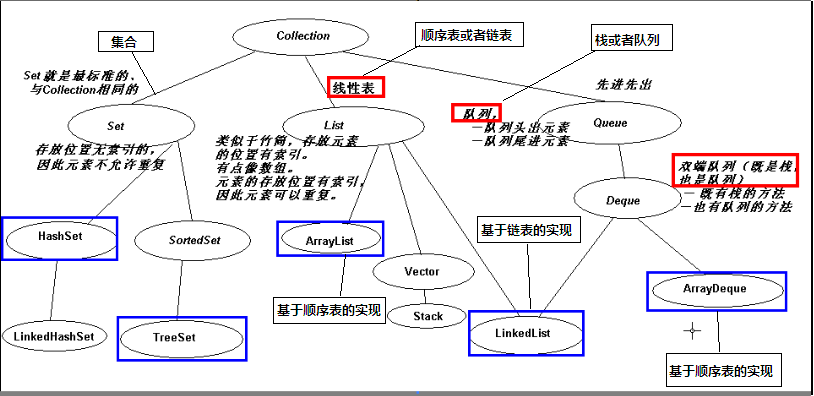
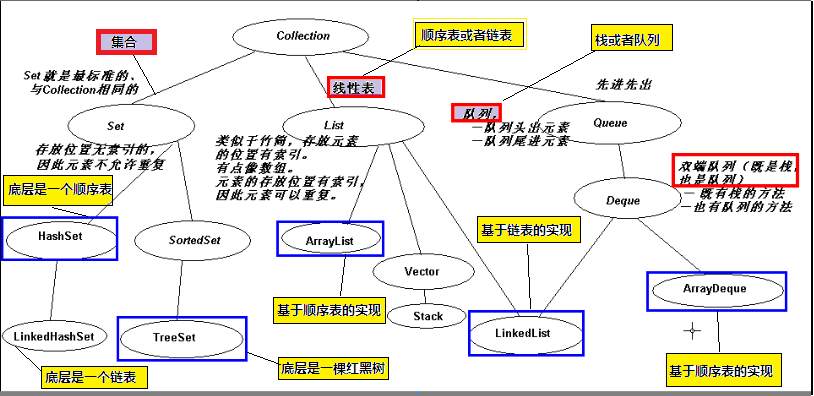
alter the collections

diff --git a/Javanote.md b/Javanote.md
@@ -2455,13 +2455,17 @@ b. loadFactor：负载因子。
 其存储机制与`HashSet`类似，但是，`HashSet`的底层机制是一个数组(顺序表），而且数据存放位置是一个无顺序的，也就是与放入时顺序无关的，这样，遍历整个`Hashset`的时候就是无序的。  
 而`LinkedHashSet`的底层机制是一个链表，这样，在链表中顺序就和放入对象的顺序是一致的，这样在遍历`linkedHashSet`的时候，就是有序的，与放入顺序一样。
 
-####TreeSet
+注：无论是数据库还是数据结构(集合)，所有对数据的操作不过是：*增、删、改、查*4种而已。
+
+####TreeSet实现类
 特征：保证`Set`中的元素对象都是已经排好序的，排序的目的在于便于查找、检索。  
 对于字符串，按首字母的`ASCII`码排序。  
-TreeSet是标准的“红黑树”；  
-树——>二叉树——>排序二叉树(左子节点小于`root`节点小于右子节点）——>平衡排序二叉树(AVL：任何节点的树高度差不大于1且是排序二叉树，保证整棵树的权值最小)——>红黑树。  
-树：**二叉树**（普通二叉树、排序二叉树、AVL树（平衡排序二叉树））、**红黑树**、**扩展树**。**B树**。  
-其中，二叉树、红黑树、扩展树是用于内存中元素的管理。B树是用于外存（例如硬盘中数据元素的管理的）。
+
+`TreeSet`是标准的“红黑树”；  
+树——>二叉树——>排序二叉树(左子节点小于`root`节点小于右子节点）——>平衡排序二叉树(AVL树：任何节点的树高度差不大于1且是排序二叉树，保证整棵树的权值最小)——>红黑树。  
+
+树：**二叉树**（普通二叉树、排序二叉树、AVL树（平衡排序二叉树））、**红黑树**、**扩展树**、**B树**。  
+其中，二叉树、红黑树、扩展树是用于内存中元素的管理。`B`树是用于外存（例如硬盘中数据元素的管理的）。
 
 `TreeSet`的底层用一棵红黑树。红黑树的存入、检索性能很好。  
 在没有出现大量的“链表（位置重合、重hash）”的情况下，`HashSet`的性能比`TreeSet`的好。而`TreeSet`不受此影响。
@@ -2473,24 +2477,22 @@ TreeSet是标准的“红黑树”；
 
 由于`TreeSet`中元素是有序的，所以要求放入到`TreeSet`中的元素对象是可以比较大小的。
 
-TreeSet在比较中认为两个元素对象相等的标准：  
-只要这两个元素对象通过`compareTo()`方法返回值是0，那么`TreeSet`就认为两对象相等。而与`equals()`方法无关（只与`compareTo()`方法有关）。所以我们要重写放入`TreeSet`中的元素对象的所属类中`compareTo()`方法。这个方法是`comparable`接口中的方法，所以，对于我们自己所写的类，必须要实现这个接口中这个唯一的这个方法。如果是**JDK**已有的类，我们就不必去自己实现这个方法了，因为已有的类已经实现了这个方法。 
- 
+`TreeSet`在比较中认为两个元素对象相等的标准：  
+只要这两个对象通过`compareTo()`方法返回值是0，那么`TreeSet`就认为两对象相等。而与`equals()`方法无关（只与`compareTo()`方法有关）。所以我们要重写放入`TreeSet`中的元素对象的所属类中`compareTo()`方法。这个方法是`comparable`接口中的方法，所以，对于我们自己所写的类，必须要实现这个接口中这个唯一的这个方法。如果是**JDK**已有的类，我们就不必去自己实现这个方法了，因为已有的类已经实现了这个方法。 
 
-  
-  
-
-TreeSet容器中比较元素对象大小的两种方式：  
+`TreeSet`容器类中比较元素对象大小的两种方式：  
 >
-1. 自然排序：那么如果**JDK**中存在的类已经实现了`compareTo()`，不用我们去重写这个方法。这个就是所谓的*自然排序*。  
-也就是我们自己放入的类对象自己已经实现Comparable接口。已经重写了里面的`compareTo()`这个方法。这个方法被自动用于元素大小比较和排序。无需我们自己再次重写。  
+1. 自然排序：  
+如果在`TreeSet`容器中存放的是**JDK**中已经存在的类对象，由于**JDK**中存在的类已经实现了`compareTo()`方法，不用我们去重写这个方法。这个就是所谓的**自然排序**。  
+也就是：我们自己放入`TreeSet`容器中的类对象自己已经实现`Comparable`接口。也就是已经重写了里面的`compareTo()`这个方法。这个方法被自动用于元素大小比较和排序。无需我们自己再次重写。  
 元素实现了这个接口之后，元素自身就是可以进行排序的。  
-2. 定制排序：对于我们自己写的类，需要自己去实现这个`compareTo()`方法或者我们对于**JDK**中已有的类希望按照自己想要的方式继续排序，就需要在创建`TreeSet`的使用要传入一个`Comparator`对象，这就是所谓的*定制排序*。  
-在创建`TreeSet`的时候，提供一个`Comparator`对象，该对象可负责对元素进行比较大小。这里集合中元素对象无需实现`comparable`接口（本身无排序功能）。这里的`TreeSet`就需要在构造的时候传入一个`Comparator`对象，由于Comparator实际上是一个接口。*所以传入的是一个`Comparator`匿名内部实现类*。这个*匿名类产生的对象*用于进行比较。
+2. 定制排序：对于我们自己写的类，需要自己去实现这个`compareTo()`方法或者我们对于**JDK**中已有的类希望按照自己想要的方式继续排序，就需要在创建`TreeSet`的时候要传入一个`Comparator`对象，这就是所谓的**定制排序**。  
+在创建`TreeSet`的时候，提供一个`Comparator`对象，该对象可负责对元素进行比较大小。实际上，这里集合中元素对象无需实现`comparable`接口（本身无排序功能）而是在使`TreeSet`就需要在构造的时候传入一个`Comparator`对象，由于`Comparator`实际上是一个接口。所以传入的是一个`Comparator`匿名内部类对象。通过这个匿名类产生的对象用于进行比较。
 
-TreeSet的使用
+`TreeSet`类使用示例
 >
 	import java.util.*;
+	//no need to implements the interface comparable' func compareTo() but transmit an anonymous object Comparator which override the func compare() into the TreeSet
 	class apple 
 	{
 		String color;
@@ -2571,7 +2573,6 @@ TreeSet的使用
 					return 0;
 				}
 			}
->	
 			});
 >	
 			ts1.add(new apple("green",4.3));
@@ -2602,7 +2603,6 @@ TreeSet的使用
 					return 0;
 				}
 			}
->	
 			});
 			ts2.add("green");
 			ts2.add("blue");
